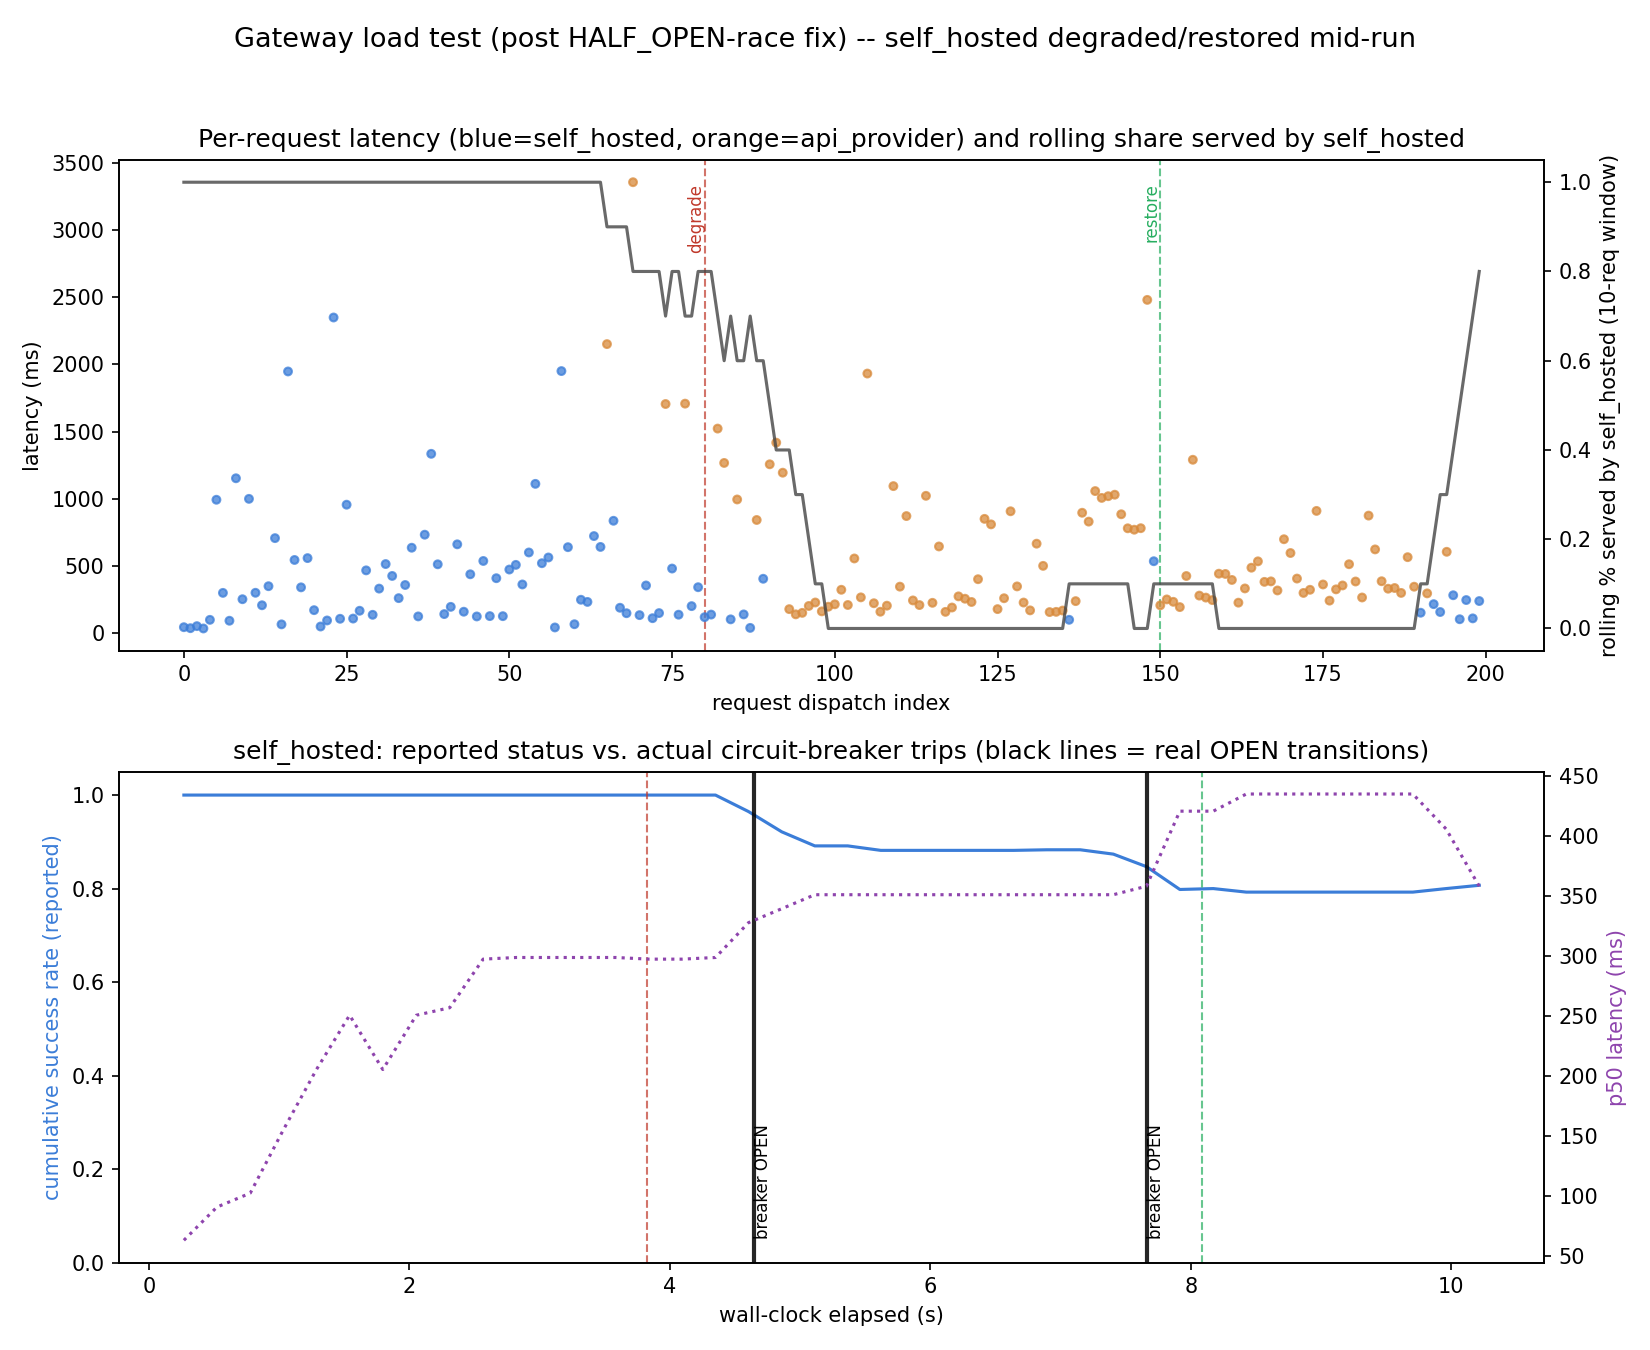
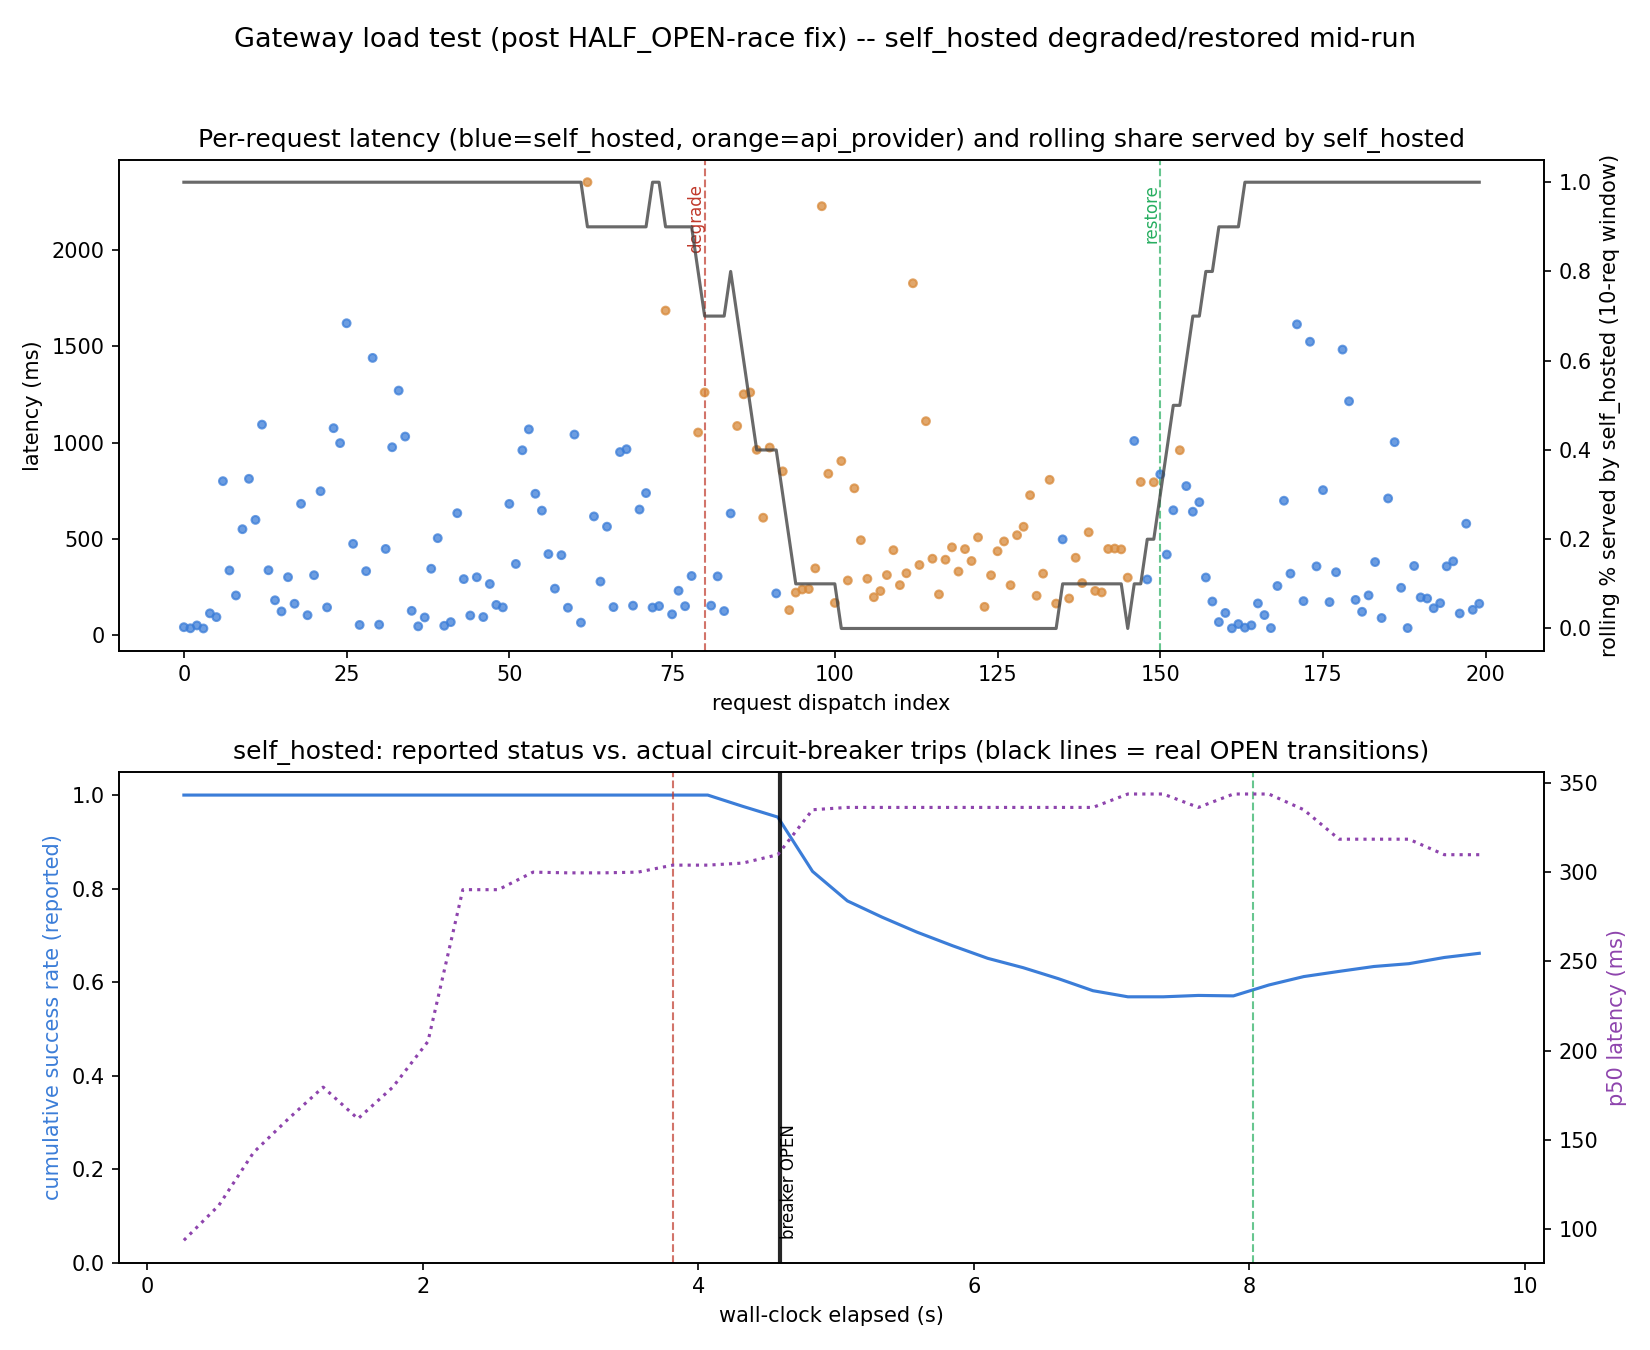
record circuit open rejections as trace span

diff --git a/app/tracing.py b/app/tracing.py
@@ -27,6 +27,8 @@ class GatewaySpan:
     timestamp: float
     cost_usd: float = 0.0
     error: str = ""
+    skipped: bool = False  # True for a circuit-open rejection: no backend
+                            # call was ever made, so latency/retries are 0.
 
 
 class TraceStore:
@@ -50,15 +52,17 @@ class TraceStore:
         stats: Dict[str, Any] = {}
 
         for backend, spans in by_backend.items():
-            latencies = sorted(s.latency_ms for s in spans)
+            attempted = [s for s in spans if not s.skipped]
+            skipped = [s for s in spans if s.skipped]
+            latencies = sorted(s.latency_ms for s in attempted) or [0.0]
             n = len(latencies)
             stats[backend] = {
-                "success_rate": sum(s.success for s in spans)/n,
+                "success_rate": sum(s.success for s in spans)/len(spans),
                 "p50_latency_ms": latencies[n//2],
                 "p95_latency_ms": latencies[n*95//100],
                 "circuit_state": spans[-1].circuit_state,
                 "total_cost_usd": sum(s.cost_usd for s in spans),
-                "request_count": n
-
+                "request_count": len(spans),
+                "circuit_open_skips": len(skipped),
             }
         return stats

diff --git a/app/router.py b/app/router.py
@@ -133,6 +133,18 @@ class ModelGateway:
         await bucket.acquire()
 
         if not breaker.allow_request():
+          self.trace_store.record(GatewaySpan(
+            trace_id=trace_id,
+            backend=backend.name,
+            success=False,
+            skipped=True,
+            latency_ms=(time.perf_counter() - t0)*1000,
+            retries=0,
+            circuit_state=breaker.state.value,
+            timestamp=time.time(),
+            cost_usd=0.0,
+            error="circuit_open",
+          ))
           raise RuntimeError("circuit open")
 
         circuit_state_at_attempt = breaker.state.value

diff --git a/docs/architecture.md b/docs/architecture.md
@@ -111,14 +111,20 @@ Meanwhile, independently at any time:
   after. That's what makes "this specific request is the one that tripped the
   breaker" reconstructable after the fact — read it live instead and you'd
   never see the moment of the trip, only its aftermath.
-- **Known gap — circuit-open skips are invisible to tracing:** when
-  `allow_request()` returns `False`, `_attempt_backend` raises immediately,
-  before any `GatewaySpan` is built. So `TraceStore`'s `request_count` for a
-  backend only reflects attempts that were actually tried, not every request
-  that was *routed toward* it — once a breaker opens, further requests to
-  that backend leave no trace at all, and `/admin/status`'s `circuit_state`
-  for it goes stale (frozen at whatever the last real attempt recorded)
-  until a HALF_OPEN probe eventually runs and gets recorded.
+- **Circuit-open skips are now logged too (fixed):** `allow_request()`
+  returning `False` used to make `_attempt_backend` raise immediately with
+  no `GatewaySpan` recorded, so `request_count` only reflected attempts
+  actually tried and `/admin/status`'s `circuit_state` went stale (frozen
+  at whatever the last real attempt recorded) for as long as the breaker
+  stayed open. Fixed: a skip now records a `GatewaySpan(skipped=True, ...)`
+  before raising, so `circuit_state` updates live even while requests are
+  being rejected, `request_count` covers every request actually routed
+  toward the backend, and a new `circuit_open_skips` count makes the
+  rejected volume explicit. Verified: `/admin/status`, polled every 0.25s
+  through a real run, now shows `closed`, `open`, *and* `half_open` — not
+  just `closed` the whole time. Latency percentiles are still computed
+  only over attempted calls, not skips, so a flood of instant rejections
+  doesn't artificially make the backend look fast.
 - **Retries can mask failures from the breaker — but only per request,
   not under real concurrency:** `failure_threshold` counts failures at the
   `_attempt_backend` level (after all 5 raw retries are exhausted), so any
